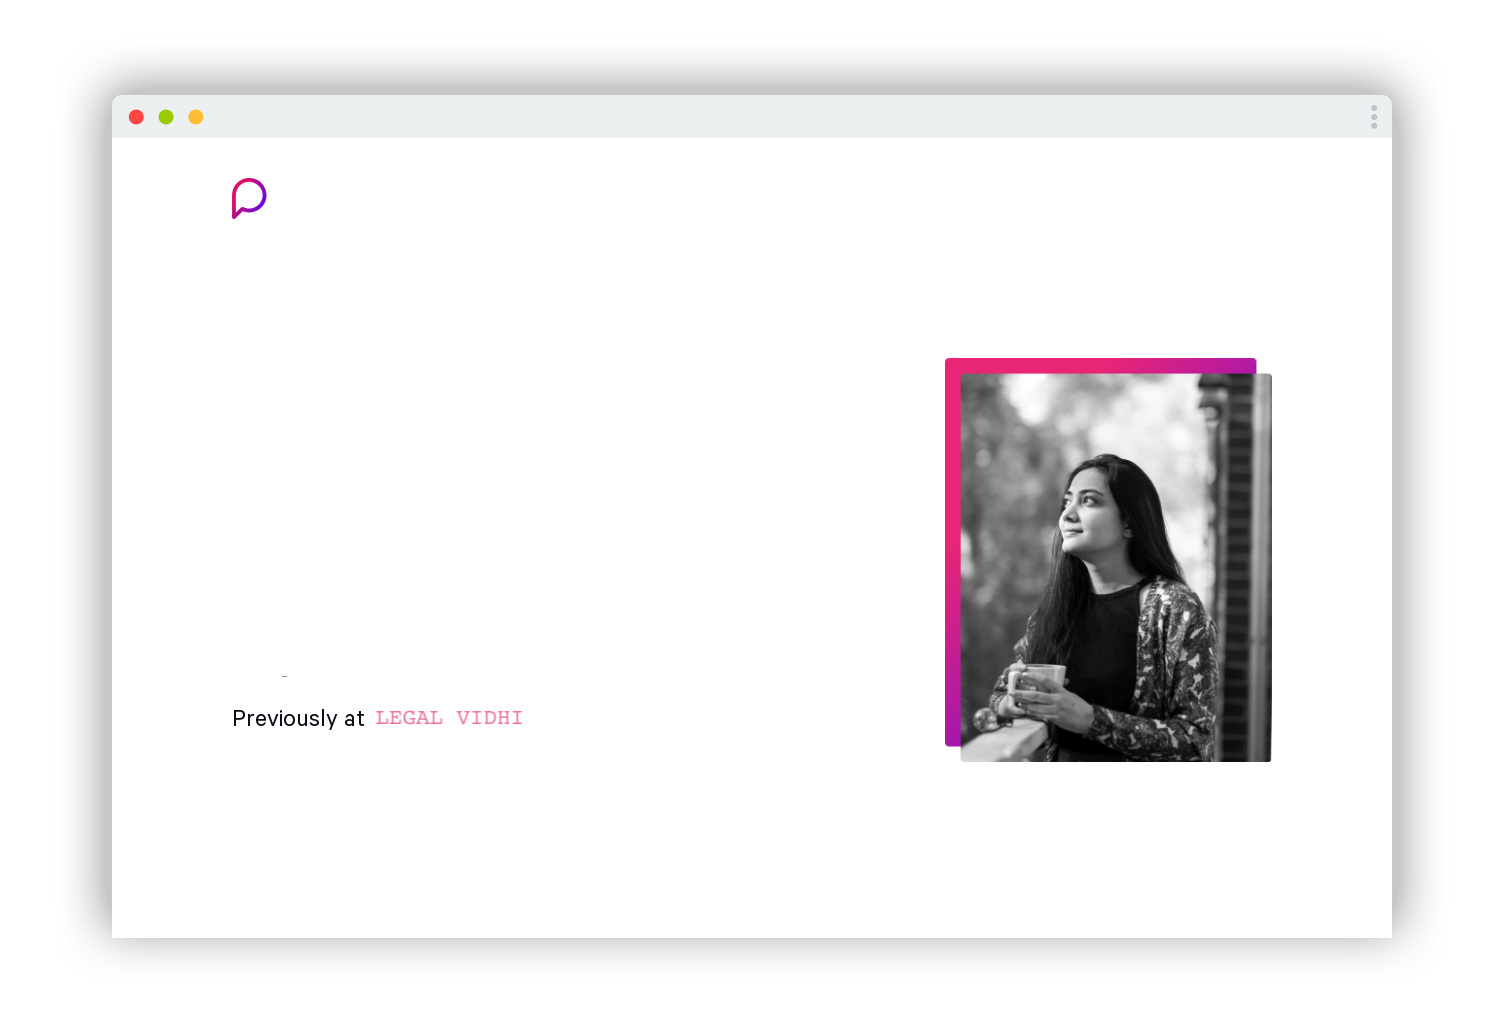
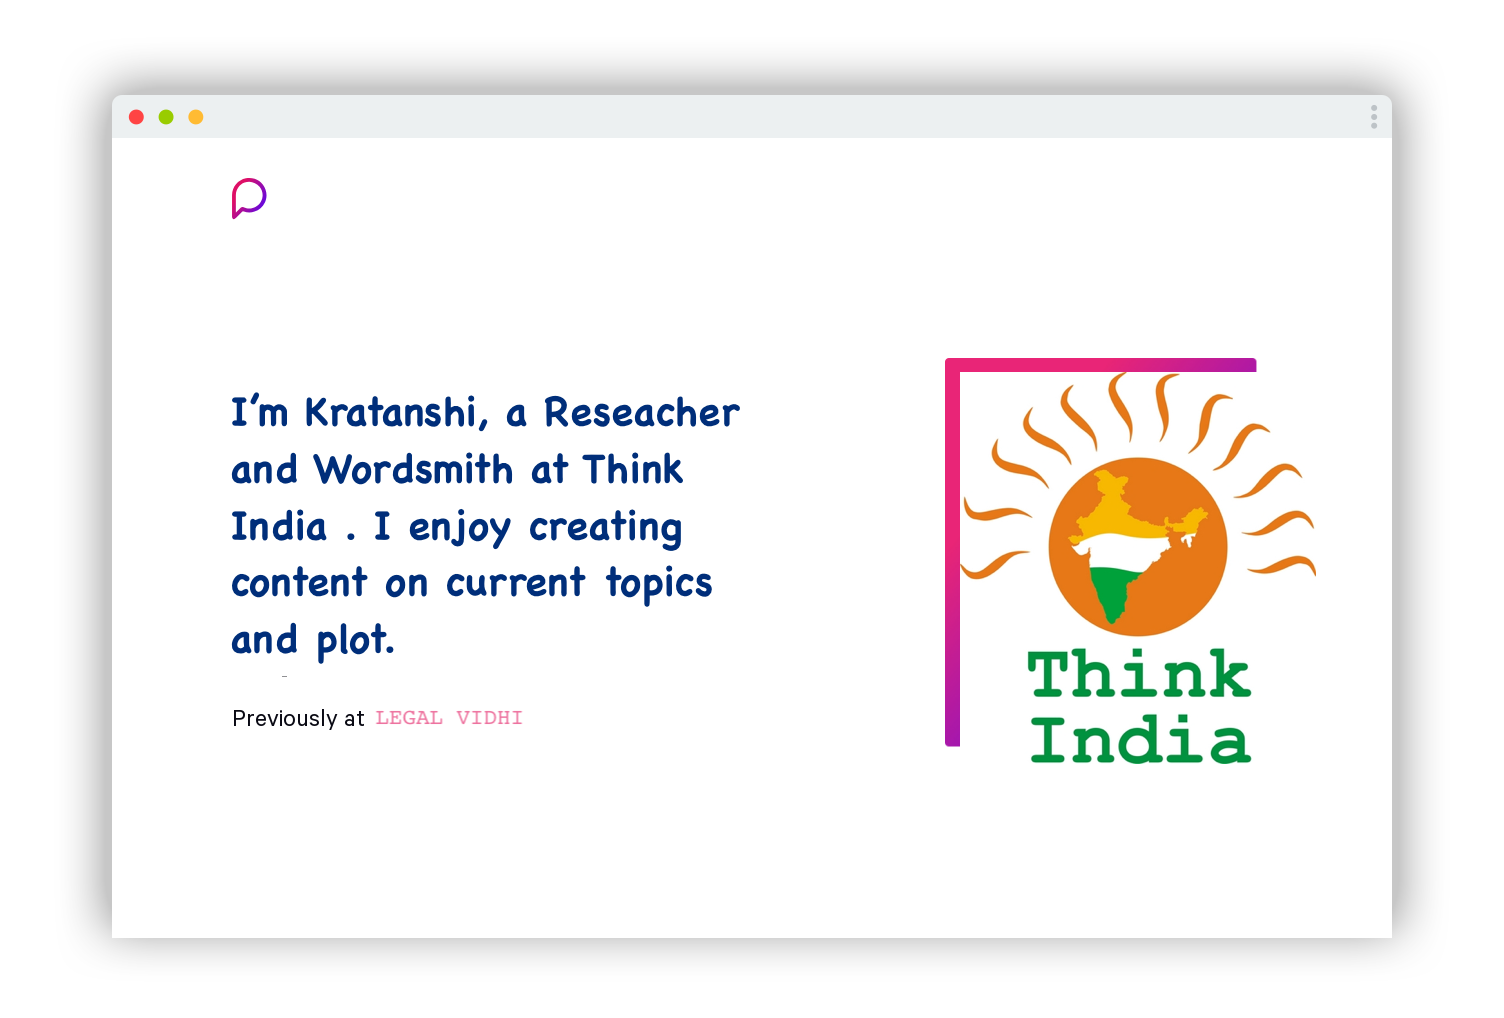
added pics

Changed region(s): [[0.625, 0.3654, 0.875, 0.7613], [0.1562, 0.3959, 0.5, 0.6395]]

diff --git a/index.html b/index.html
@@ -176,8 +176,8 @@ https://www.tooplate.com/view/2115-marvel
                                 <span>2021</span>
                             </div>
                             <div class="timeline-info">
-                                <h3><span>UI Freelancer</h3>
-                                <p>Sed fringilla vitae enim sit amet cursus. Sed cursus dictum tortor quis pharetra. Pellentesque habitant morbi tristique senectus et netus et malesuada fames ac turpis egestas.</p>
+                                <h3><span>Think India</h3>
+                                <p>I am selected a intern for creating e-content and research work on current plots and scene.</p>
                             </div>
                         </div>
 
